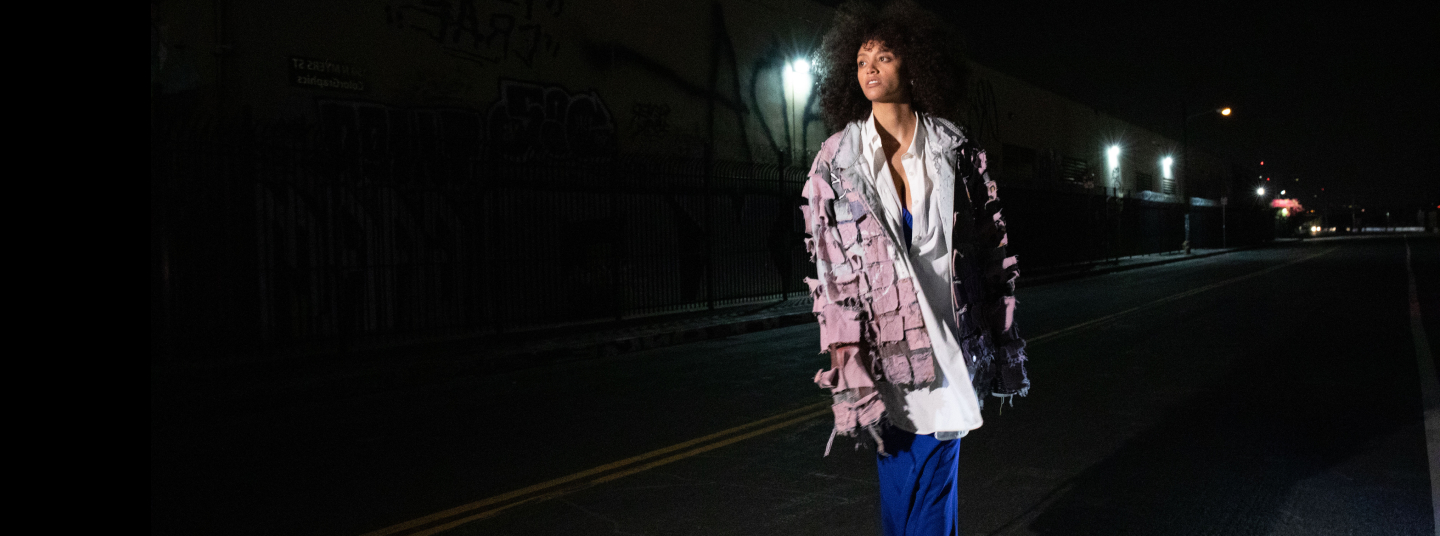
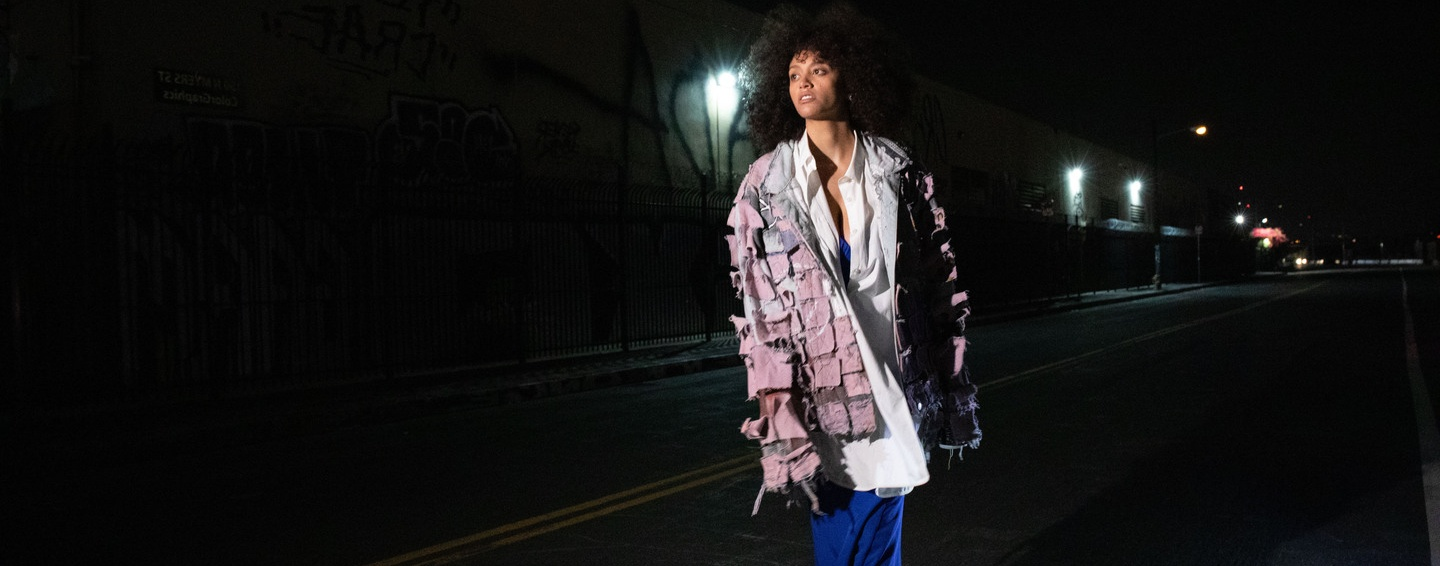
join img, caps, previous

diff --git a/terms-conditions.html b/terms-conditions.html
@@ -112,9 +112,7 @@
                                 , Zagrebačka 10430
                                 . Our VAT number is 34795637747. You agree that by accessing the Site, you have read,
                                 understood, and agreed
-                                to be bound by all of these Terms of Use. IF YOU DO NOT AGREE WITH ALL OF THESE TERMS OF
-                                USE, THEN YOU ARE
-                                EXPRESSLY PROHIBITED FROM USING THE SITE AND YOU MUST DISCONTINUE USE IMMEDIATELY.
+                                to be bound by all of these Terms of Use. If You Do Not Agree With All of These Terms of Use, Then You Are Expressly Prohibited From Using the Site and You Must Discontinue Use Immediately. 
 
                                 Supplemental terms and conditions or documents that may be posted on the Site from time
                                 to time are hereby
@@ -1031,21 +1029,21 @@
                                 legal
                                 requirement that such
                                 communication be
-                                in writing. YOU HEREBY
-                                AGREE TO THE
-                                USE OF
-                                ELECTRONIC
-                                SIGNATURES,
-                                CONTRACTS, ORDERS, AND
-                                OTHER RECORDS,
-                                AND TO ELECTRONIC
-                                DELIVERY OF NOTICES,
-                                POLICIES,
-                                AND
-                                RECORDS OF
-                                TRANSACTIONS INITIATED
-                                OR COMPLETED BY
-                                US OR VIA THE SITE. You
+                                in writing. You Hereby
+                                Agree to the
+                                Use of
+                                Electronic
+                                Signatures,
+                                Contracts, Orders, and
+                                Other Records,
+                                and to Electronic
+                                Delivery of Notices,
+                                Policies,
+                                and
+                                Records of
+                                Transactions Initiated
+                                or Completed by
+                                Us or via the Site. You
                                 hereby waive
                                 any rights
                                 or
@@ -1255,16 +1253,16 @@
                                 the
                                 Site, please
                                 contact us
-                                at:
+                                at: <br>
 
                                 MILLI POINT
-                                TWO d.o.o.
+                                TWO d.o.o.<br>
                                 Zagrebačka
-                                ul. 32a
-                                Samobor ,
-                                Zagrebačka
-                                10430
-                                Croatia
+                                ul. 32a <br>
+                                Samobor <br>
+                                Zagrebačka <br>
+                                10430 <br>
+                                Croatia <br>
                                 contact@millipointtwo.co
                             </p>
                         </div>

diff --git a/archive.html b/archive.html
@@ -76,7 +76,7 @@
         <!--========== archive area start ===========-->
         <div class="archive_area" id="accordion">
             <div class="container">
-                <h1 class="title_xl">previous COLLECTIONS</h1>
+                <h1 class="title_xl">previous</h1>
             </div>
             <div class="container-fluid">
                 <div class="row">

diff --git a/index.html b/index.html
@@ -292,7 +292,7 @@
                                     alt=""></a></li>
                     </ul>
             </div>
-            <img class="join_img" src="img/join-img.png" alt="">
+            <img class="join_img" src="img/join-bg.jpg" alt="">
         </div>
 
         <!--========== GALLERY area start ===========-->
